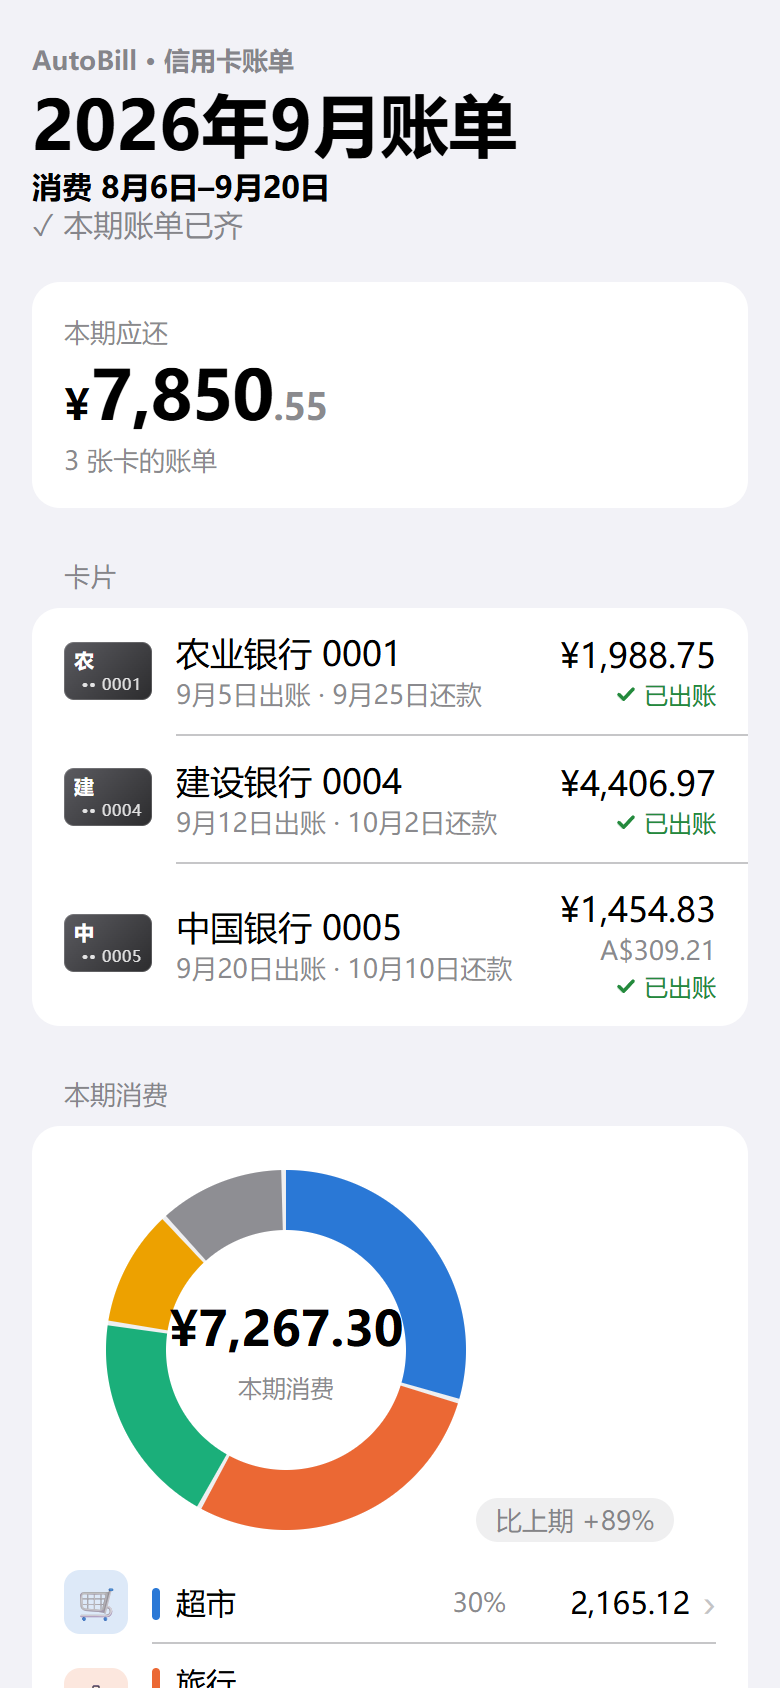
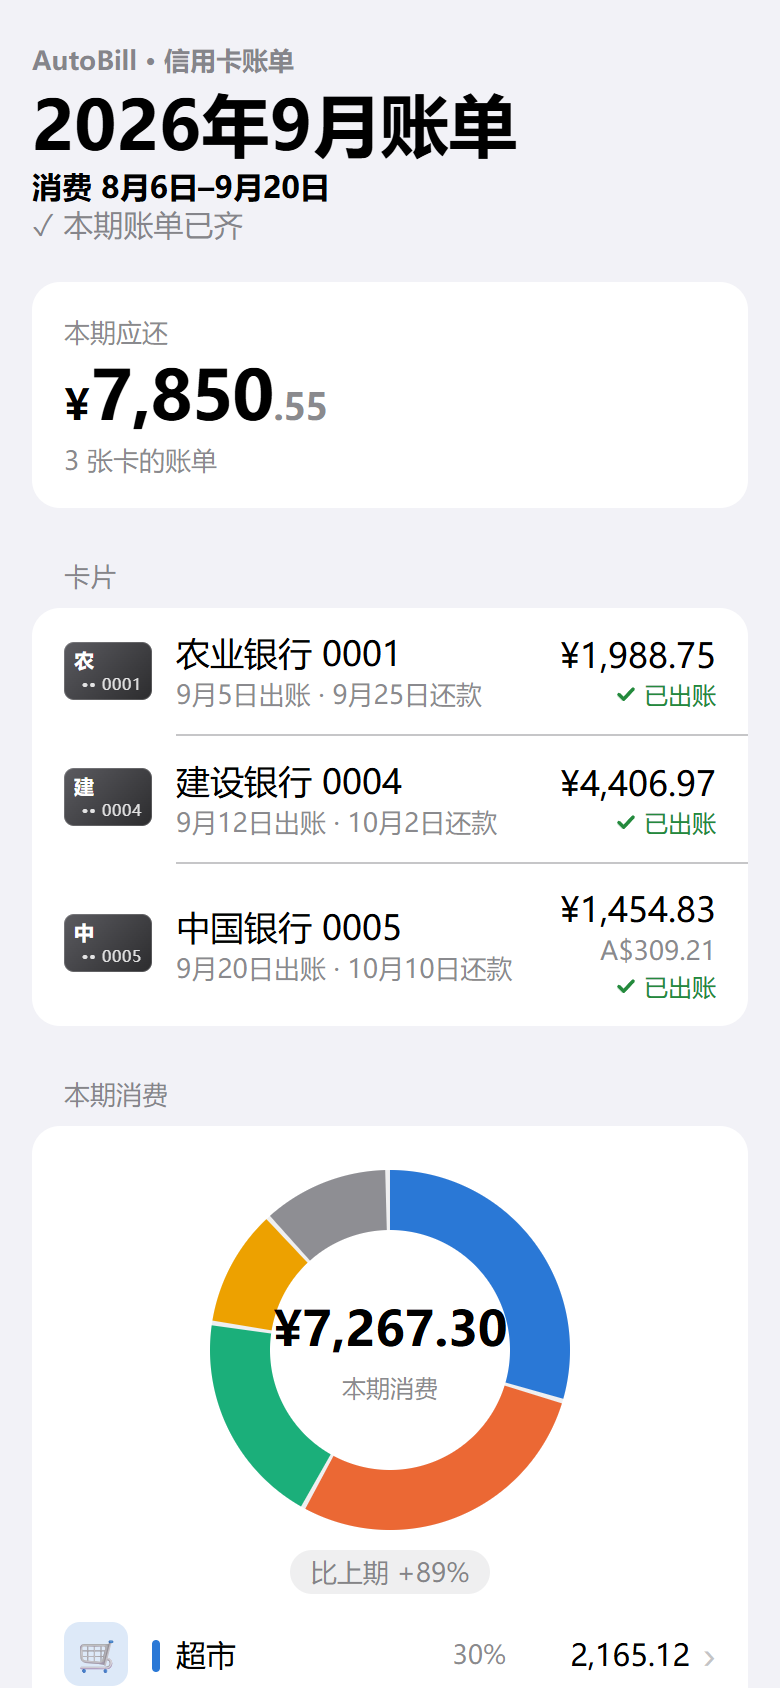
fix(email): the merchants' ring as full as their share, the spending ring centred, names that wrap aligned

Changed region(s): [[0.0615, 0.6777, 0.7385, 1.0], [0.7385, 0.8934, 0.8923, 0.9858]]

diff --git a/src/autobill/report/templates/_email.css b/src/autobill/report/templates/_email.css
@@ -40,6 +40,7 @@
   .card { background: var(--card); border-radius: 14px; padding: 16px; }
   .group { background: var(--card); border-radius: 14px; overflow: hidden; }
   .caption { font-size: 13px; color: var(--label2); line-height: 1.35; }
+  .nb { white-space: nowrap; }  /* a caption's parts break between them, never inside */
 
   /* money, Apple Card style: big rounded figures with small cents */
   .hero { font-family: ui-rounded, -apple-system, "SF Pro Rounded", "PingFang SC", sans-serif;
@@ -51,7 +52,8 @@
 
   /* donut: one arc per share, the total in the middle */
   .donut-wrap { text-align: center; margin: 6px 0 10px; }
-  svg.donut { display: inline-block; width: 180px; height: 180px; max-width: 100%; }
+  svg.donut { display: block; margin: 0 auto; width: 180px; height: 180px; max-width: 100%; }
+  .donut-wrap .change { margin-top: 10px; }  /* under the ring, not beside it */
   svg.donut circle { fill: none; stroke-width: 30; }
   svg.donut .track { stroke: var(--fill); }
   svg.donut .s1 { stroke: var(--s1); } svg.donut .s2 { stroke: var(--s2); }
@@ -59,6 +61,8 @@
   svg.donut .other { stroke: var(--other); }
   svg.donut .none { stroke: var(--other); opacity: .45; }
   svg.donut .donut-num { fill: var(--label); font-size: 24px; font-weight: 700; font-family: ui-rounded, -apple-system, sans-serif; font-variant-numeric: tabular-nums; }
+  /* a longer figure is set smaller, so it stays inside the ring (charts.donut_svg) */
+  svg.donut .donut-num.long { font-size: 20px; } svg.donut .donut-num.longer { font-size: 18px; }
   svg.donut .donut-cap { fill: var(--label2); font-size: 12px; font-weight: 500; }
   /* spending trend: this month in the accent, earlier months grey (validated pair) */
   svg.trend { width: 100%; height: auto; display: block; margin: 6px 0 8px; }
@@ -112,7 +116,9 @@
   .rows .rbody { flex: 1; min-width: 0; display: flex; align-items: center; gap: 8px; padding: 10px 0; }
   .rows .row + .row .rbody { border-top: .5px solid var(--sep); }
   .rows .name { flex: 1; min-width: 0; font-size: 15px; }
-  .rows .note { display: block; font-size: 12px; color: var(--label2); margin-top: 2px; }
+  /* a name with a colour key hangs: a second line and the note start under the name */
+  .rows .name:has(> .key) { padding-left: 12px; text-indent: -12px; }
+  .rows .note { display: block; font-size: 12px; color: var(--label2); margin-top: 2px; text-indent: 0; }
   .rows .pct { font-size: 13px; color: var(--label2); width: 40px; text-align: right; font-variant-numeric: tabular-nums; }
   .rows .amt { font-size: 15px; min-width: 84px; text-align: right; }
 

diff --git a/src/autobill/report/charts.py b/src/autobill/report/charts.py
@@ -6,6 +6,7 @@ light and dark mode; every number a chart shows is in its aria-label too.
 from __future__ import annotations
 
 import math
+from decimal import Decimal
 from typing import TYPE_CHECKING
 
 from markupsafe import Markup, escape
@@ -72,14 +73,18 @@ def trend_svg(bars: list[MonthBar], name: str = "") -> Markup:
     return Markup("".join(parts))
 
 
-def donut_svg(segments: list[Segment], center: str, caption: str) -> Markup:
+def donut_svg(
+    segments: list[Segment], center: str, caption: str, whole: Decimal | None = None
+) -> Markup:
     """The shares as a ring, one arc per segment, clockwise from 12 o'clock in the order of
     the legend below it. Colours come from CSS classes, so the chart follows light and dark
     mode; a 2px gap keeps neighbouring slices apart. Every slice is named with its share in
     the legend, so a slice too thin to see is never the only place a number appears.
     Merchant names come from the statement, so every text is escaped ("H&M", a quote).
+    With `whole`, the segments are a part of it (the top shops out of all spending): the
+    arcs are as long as their shares of the whole and the rest of the ring stays empty.
     """
-    total = sum((s.weight for s in segments), ZERO)
+    total = max(sum((s.weight for s in segments), ZERO), whole or ZERO)
     if not segments or total <= 0:
         return Markup("")
     size, stroke = 180, 30
@@ -104,8 +109,11 @@ def donut_svg(segments: list[Segment], center: str, caption: str) -> Markup:
         offset += length
     parts.append("</g>")
     if center:
+        # "¥59,053.12" is as wide as the hole at the full size, a sixth digit wider
+        size_class = " longer" if len(center) > 10 else " long" if len(center) > 9 else ""
         parts.append(
-            f'<text class="donut-num" x="50%" y="49%" text-anchor="middle">{escape(center)}</text>'
+            f'<text class="donut-num{size_class}" x="50%" y="49%" text-anchor="middle">'
+            f"{escape(center)}</text>"
             f'<text class="donut-cap" x="50%" y="63%" text-anchor="middle">{escape(caption)}</text>'
         )
     parts.append("</svg>")

diff --git a/tests/test_cycle.py b/tests/test_cycle.py
@@ -1,6 +1,7 @@
 """The statement month's e-mail (docs/notify.md#账单月邮件), offline."""
 
 import json
+import math
 import re
 from datetime import date
 from decimal import Decimal
@@ -662,6 +663,27 @@ def test_merchant_names_in_the_donut_are_escaped():
     donut = str(donut_svg([segment], "¥1", "本期消费"))
     assert 'aria-label="本期消费：Bar &#34;Q&#34; &amp; &lt;Grill&gt; 100%"' in donut
     assert "<Grill>" not in donut
+
+
+def test_the_merchants_ring_is_as_full_as_their_share(db):
+    """The top shops are a part of the month's spending: each arc is as long as the share
+    its row says, and what the others spent stays empty ring."""
+    conn, fx = db
+    r = report(conn, fx)
+    arcs = [float(a) for a in re.findall(r'stroke-dasharray="([\d.]+) ', str(r.merchant_donut))]
+    ring = 2 * math.pi * 75
+    whole = sum(s.weight for s in r.segments)
+    for arc, shop in zip(arcs, r.merchants, strict=True):
+        assert arc == pytest.approx(float(shop.weight / whole) * ring - 2, abs=0.01)  # 2: the gap
+    assert sum(arcs) < ring * 0.99  # the five do not make up the month
+
+
+def test_a_long_figure_in_the_donut_is_set_smaller():
+    """ "¥59,053.12" is as wide as the ring's hole at the full size."""
+    segment = Segment("超市", "1.00", "100%", Decimal("1"), "s1")
+    assert 'class="donut-num"' in donut_svg([segment], "¥7,267.30", "本期消费")
+    assert 'class="donut-num long"' in donut_svg([segment], "¥59,053.12", "本期消费")
+    assert 'class="donut-num longer"' in donut_svg([segment], "¥123,456.78", "本期消费")
 
 
 def test_stacked_categories_name_four_and_fold_the_rest(db):

diff --git a/src/autobill/report/cycle.py b/src/autobill/report/cycle.py
@@ -249,7 +249,7 @@ class CycleReport:
         top = sum((m.weight for m in self.merchants), ZERO)
         total = sum((s.weight for s in self.segments), ZERO)
         center = share(top, total) if total > 0 else ""
-        return donut_svg(self.merchants, center, f"前 {len(self.merchants)} 名占比")
+        return donut_svg(self.merchants, center, f"前 {len(self.merchants)} 名占比", whole=total)
 
 
 @dataclass

diff --git a/docs/notify.md b/docs/notify.md
@@ -176,7 +176,7 @@ python3 ~/autobill/scripts/export_ai_categories.py ~/autobill-docker/data/autobi
 2. **大数字**：本期应还（折合人民币）+ 一行小字"N 张卡的账单"。
 3. **卡片**：分组列表，每张卡一行：钱包式缩略图、银行和尾号、**出账日和还款日**、右边是应还和状态（✓ 已出账 / 时钟 待出账 / ! 可能无账单，图标加文字，不只靠颜色）。
    - **外币卡在人民币下面再给一行原币种**（`US$168.50`）：折算是给你看总额的，真正要还给银行的是那个币种的数。
-4. **本期消费**：**圆盘图**（donut，中间是消费合计）+ 环比小药丸 `比上期 +12%`；下面每个分类一行（emoji 图块、颜色标记、占比、金额）。
+4. **本期消费**：**圆盘图**（donut，中间是消费合计；金额到五位数以上时字号小一号，不压到圆环）+ 正下方的环比小药丸 `比上期 +12%`；下面每个分类一行（emoji 图块、颜色标记、占比、金额）。
    - **轻点一行，展开这一类本期的每一笔**：最上面一行"24 笔 · ¥7,629.16"，下面每笔写商户、"7月5日 · 农业银行 0001"、右边当地币种的金额和折合人民币，按日期排。只列消费（消费、手续费、利息、取现），和分类金额同一口径、同一汇率，所以一行展开后的每一笔加起来就是这一行（有测试钉住）。
    - 颜色：前 4 个分类用验证过的分类色（第 1–4 号），其余合并成一行**"其余 N 类"**（灰色；不叫"其他"，免得和 AI 分不出来的"其他"分类撞名），轻点列出是哪几类，每一类还能再点开看每一笔；"未分类"放最后（更淡的灰）。这一组颜色用 dataviz 的校验脚本在浅色、深色两种背景下都跑过。
    - **图例必须带占比和金额**：占比 2% 以下的切片在图上几乎看不见，数字不能只存在于图里。
@@ -193,7 +193,7 @@ python3 ~/autobill/scripts/export_ai_categories.py ~/autobill-docker/data/autobi
    - 有账单的月份不到 2 个时整块不显示（一根柱子没有可比的）。
    - 颜色：强调色和灰色（`--other`，`#8E8E93`）这一对用 dataviz 校验脚本在浅色、深色下都跑过：色觉障碍和正常视力下都分得开，对背景的对比度都够 3:1。
    - 每个月的金额都写在图的 `aria-label` 和纯文本版本里，不只存在于柱子的高度里。
-6. **花得最多的商户**：同样是圆盘图，中间写前 5 名占本期消费的比例，下面五行明细。**轻点一家，展开在这家店本期的每一笔**（日期、卡 · 分类、金额）。
+6. **花得最多的商户**：同样是圆盘图，中间写前 5 名占本期消费的比例，下面五行明细。圆环上每一段的长度就是这家店占本期消费的比例，其余商户那部分留空，所以前 5 名占 70% 时圆环只填满七成。**轻点一家，展开在这家店本期的每一笔**（日期、卡 · 分类、金额）。
 7. **全部流水**：**所有卡合在一张表里**，按日期分组，默认**折叠**，轻点展开。每笔一行：
    - emoji 图块、商户、小字（卡 · 分类 · 地点 · 分期 · 入账日）；
    - 右边**以消费当地的币种为主**（`JP¥12,345`，日元和人民币都用 ¥，所以日元写成 `JP¥`），下面小字给折算的人民币 `≈¥612`；本币消费不重复显示人民币；

diff --git a/CHANGELOG.md b/CHANGELOG.md
@@ -4,6 +4,12 @@
 
 ## [Unreleased]
 
+### Fixed
+- 月度邮件“花得最多的商户”的圆环：每一段的长度现在等于这家店占本期消费的比例，其余商户的部分留空。以前五家店把圆环占满，弧长和旁边写的百分比对不上。
+- 月度邮件“本期消费”的圆盘居中，“比上期”放到它正下方；以前两者挤在一行，圆盘偏左。
+- 圆盘中间的金额到五位数以上时字号小一号，不再压到圆环上。
+- 换行的商户名、分类下面的“比平时多/少”和名字对齐；说明文字只在“·”处换行，不再从词中间断开。
+
 ## [0.3.0] - 2026-10-13
 
 ### Added
